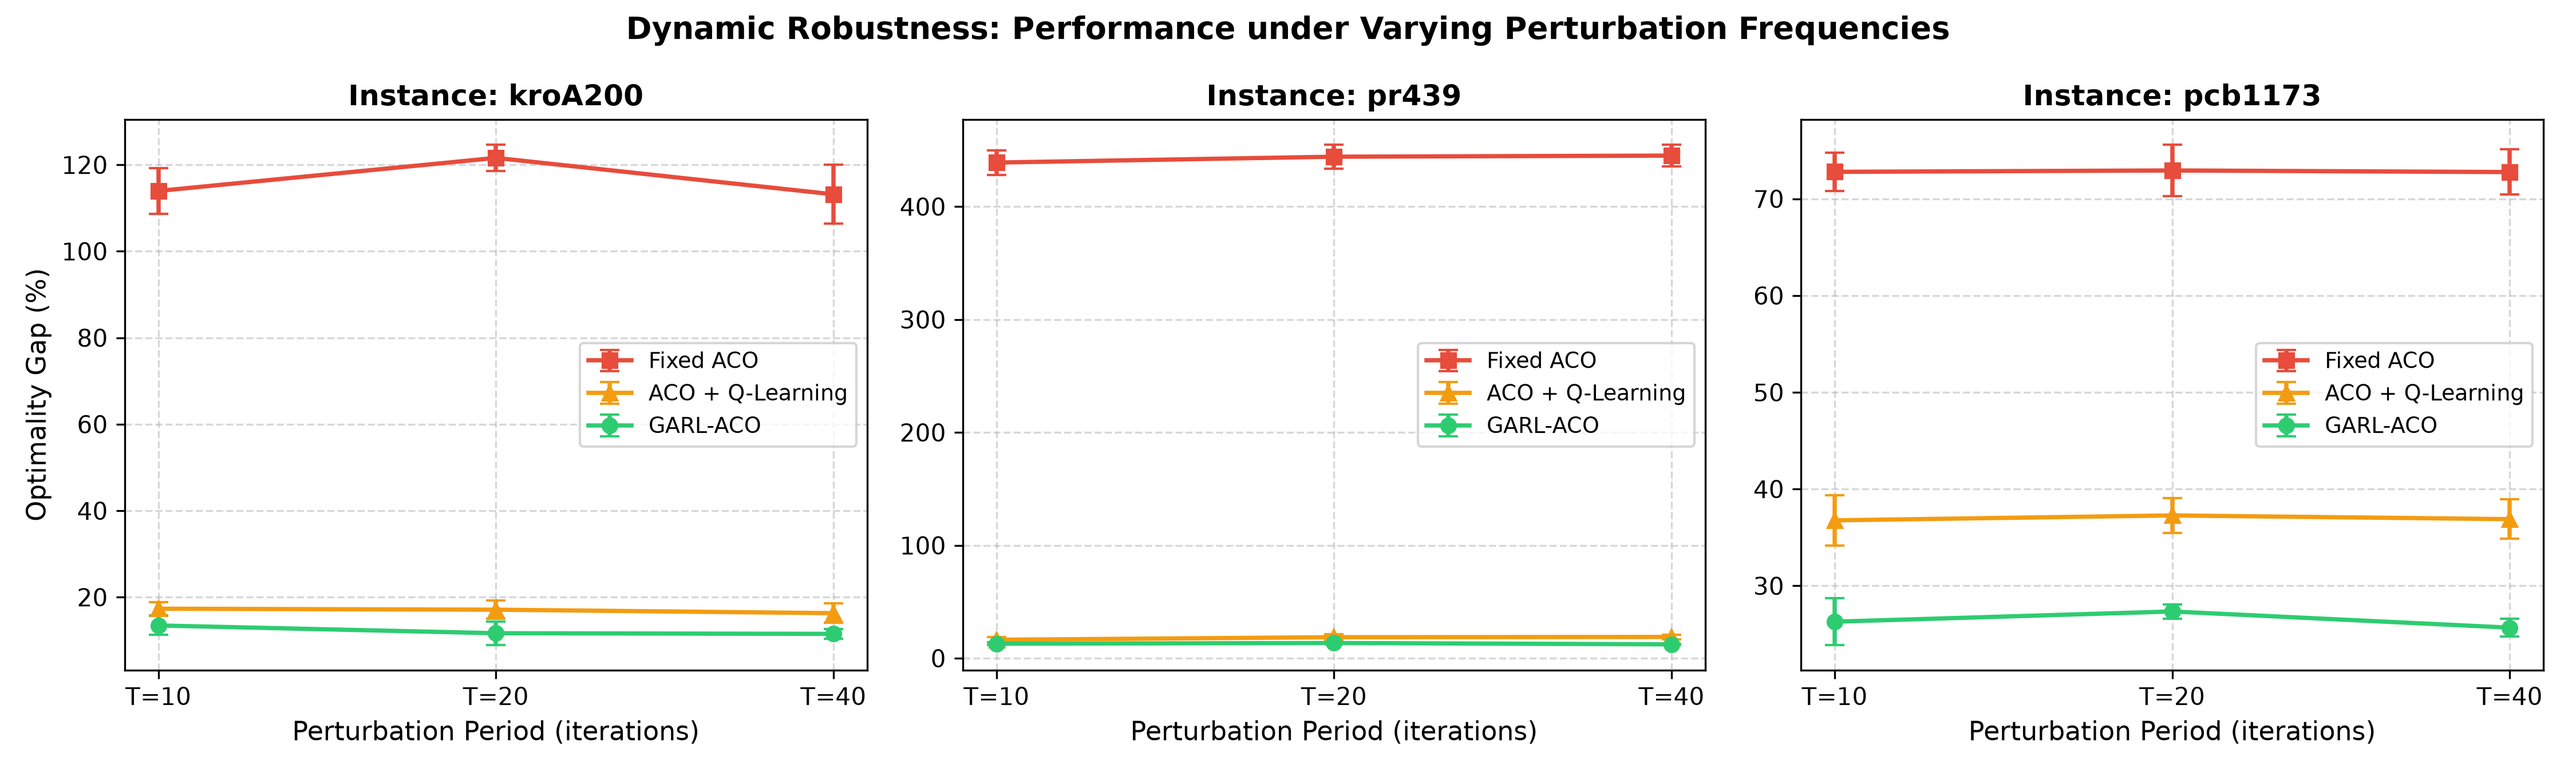
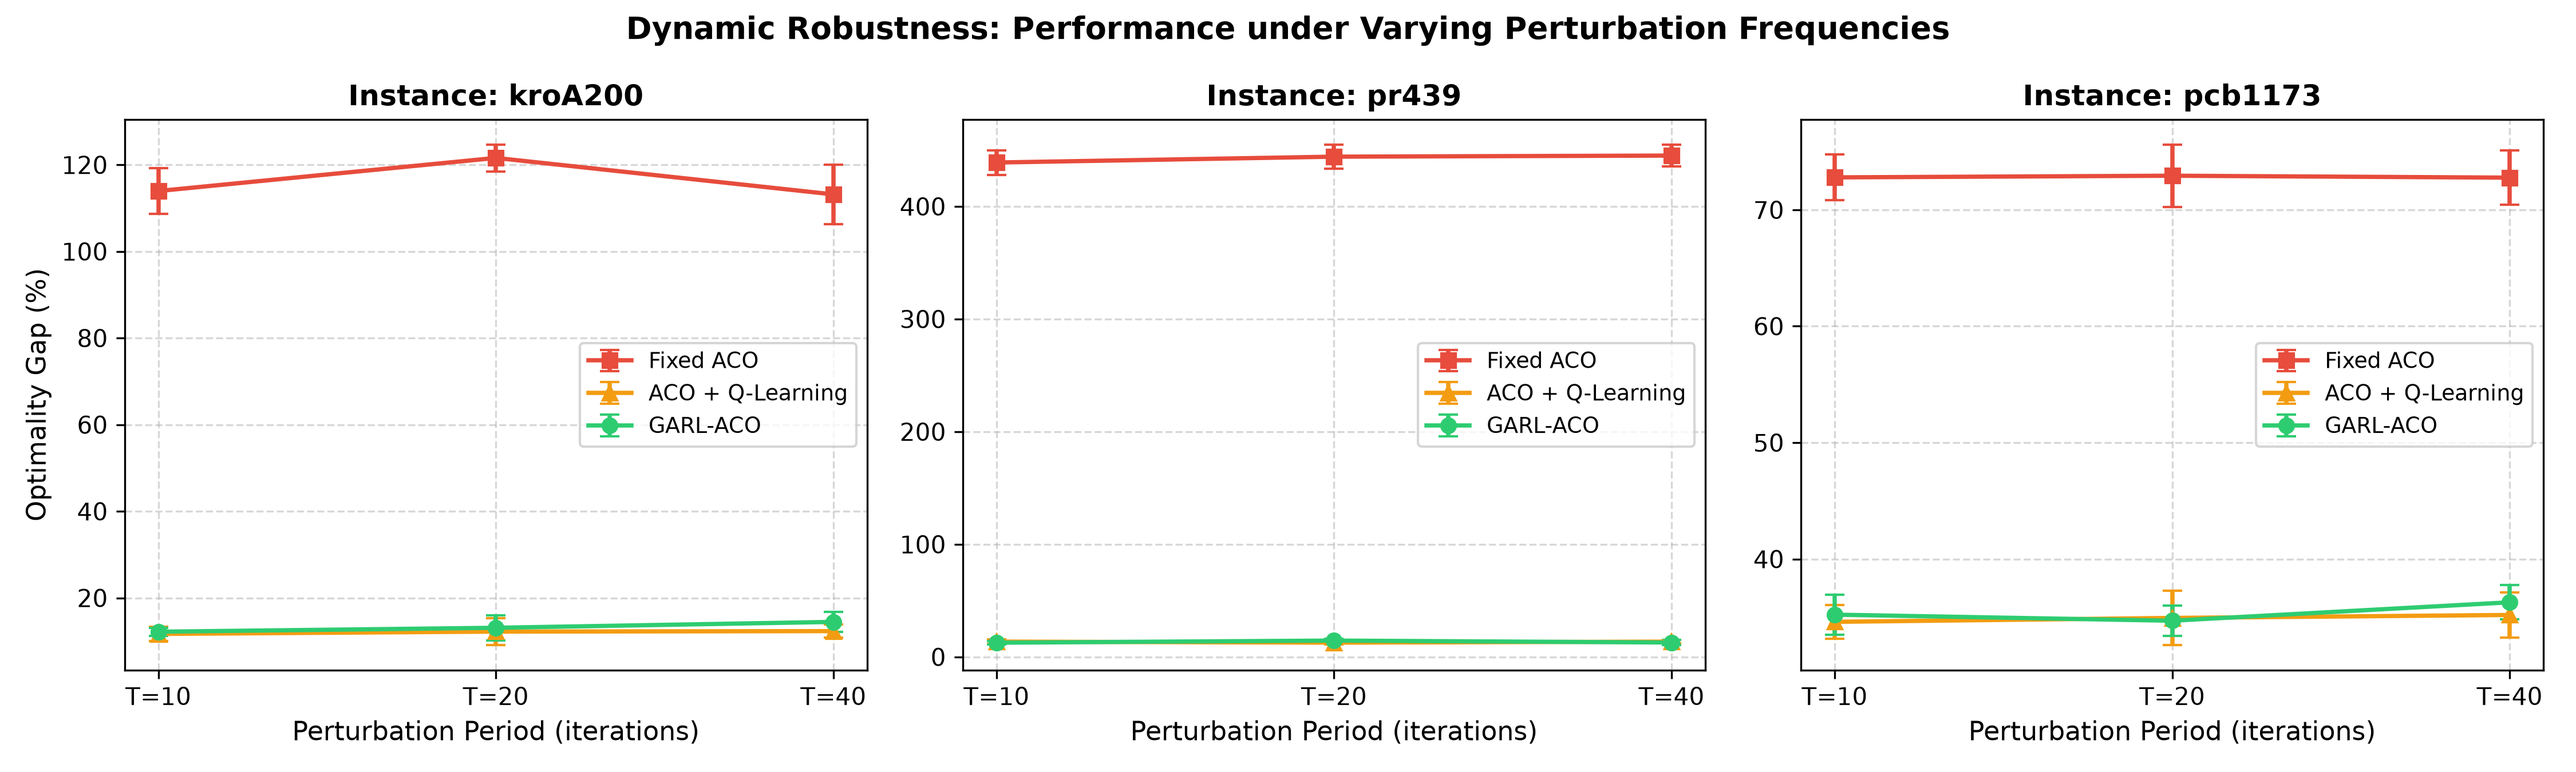
Cap nhat lai theo gop y cua reviewer

diff --git a/GARL-ACO/GARL ACO/demo_app.py b/GARL-ACO/GARL ACO/demo_app.py
@@ -18,9 +18,10 @@ from data.tsp_loader import load_dataset_instance
 from data.solutions import get_gap
 from env.dynamic_tsp_env import DynamicTSPEnvironment
 from aco.aco_core import VectorizedACO
-from agent.state_builder import build_state_vector
+from agent.state_builder import build_state_vector, build_search_only_state_vector
 from agent.ddpg_agent import DDPGAgent
 from agent.ql_agent import QLearningAgent
+from agent.dqn_agent import DQNAgent
 
 st.set_page_config(
     page_title="GARL-ACO Framework for Dynamic TSP",
@@ -28,10 +29,10 @@ st.set_page_config(
     initial_sidebar_state="expanded"
 )
 
-st.title(" GARL-ACO Framework (18 Graph Features)")
-st.markdown("### Research Demo — Dynamic Parameter Control with 18 Graph Structural Features")
+st.title("🐜 GARL-ACO Framework: Adaptive DRL-Driven Ant Colony Optimization")
+st.markdown("### Research & Interactive Demo — Dynamic TSP with Graph-Aware Reinforcement Learning")
 
-st.sidebar.header(" Control Panel")
+st.sidebar.header("🕹 Control Panel")
 
 instance_name = st.sidebar.selectbox(
     "Select TSP Instance:",
@@ -41,7 +42,7 @@ instance_name = st.sidebar.selectbox(
 
 method = st.sidebar.radio(
     "Select Dynamic Control Method:",
-    options=["Fixed ACO", "ACO + Q-Learning", "GARL-ACO"],
+    options=["Fixed ACO", "ACO + Q-Learning", "GARL-ACO (Proposed)", "NoGraph-DDPG (Ablation A)", "Discrete-DQN (Ablation B)"],
     index=2
 )
 
@@ -82,12 +83,22 @@ with right_col:
     param_plot_spot = st.empty()
 
 if run_button:
-    st.toast(f"Starting v4 simulation on {instance_name} with {method}...", icon="🚀")
+    st.toast(f"Starting simulation on {instance_name} with {method}...", icon="🚀")
     
-    ddpg_agent = DDPGAgent()
+    ddpg_agent = DDPGAgent(state_dim=34)
     ddpg_path = os.path.join(CHECKPOINT_DIR, "ddpg_agent.pt")
     if os.path.exists(ddpg_path):
         ddpg_agent.load(ddpg_path)
+
+    nograph_agent = DDPGAgent(state_dim=16)
+    nograph_path = os.path.join(CHECKPOINT_DIR, "ddpg_agent_nograph.pt")
+    if os.path.exists(nograph_path):
+        nograph_agent.load(nograph_path)
+
+    dqn_agent = DQNAgent(state_dim=34)
+    dqn_path = os.path.join(CHECKPOINT_DIR, "dqn_agent.pt")
+    if os.path.exists(dqn_path):
+        dqn_agent.load(dqn_path)
         
     ql_agent = QLearningAgent()
     ql_path = os.path.join(CHECKPOINT_DIR, "ql_agent.pkl")
@@ -97,7 +108,7 @@ if run_button:
     dynamic_env = DynamicTSPEnvironment(
         base_dist_matrix=instance.dist_matrix,
         perturb_ratio=0.12,
-        perturb_amplitude=0.5,
+        perturb_amplitude=0.4,
         perturb_period=20,
         enabled=enable_dynamic_traffic,
         seed=42
@@ -122,14 +133,27 @@ if run_button:
         active_dist = dynamic_env.step_environment()
         aco.set_dist_matrix(active_dist)
         
-        if method == "GARL-ACO" and (it == 1 or it % CONTROL_FREQ == 0):
+        if "GARL-ACO" in method and (it == 1 or it % CONTROL_FREQ == 0):
             graph_stats = dynamic_env.get_change_stats()
             aco_stats = aco.get_search_stats()
             state_vec = build_state_vector(aco_stats, graph_stats, active_dist, current_iter=it, max_iter=n_iterations)
             _, params = ddpg_agent.select_action(state_vec, add_noise=False)
             aco.set_parameters(params["alpha"], params["beta"], params["rho"])
+
+        elif "NoGraph" in method and (it == 1 or it % CONTROL_FREQ == 0):
+            aco_stats = aco.get_search_stats()
+            state_vec = build_search_only_state_vector(aco_stats, active_dist, current_iter=it, max_iter=n_iterations)
+            _, params = nograph_agent.select_action(state_vec, add_noise=False)
+            aco.set_parameters(params["alpha"], params["beta"], params["rho"])
+
+        elif "Discrete-DQN" in method and (it == 1 or it % CONTROL_FREQ == 0):
+            graph_stats = dynamic_env.get_change_stats()
+            aco_stats = aco.get_search_stats()
+            state_vec = build_state_vector(aco_stats, graph_stats, active_dist, current_iter=it, max_iter=n_iterations)
+            _, params = dqn_agent.select_action(state_vec, evaluate=True)
+            aco.set_parameters(params["alpha"], params["beta"], params["rho"])
             
-        elif method == "ACO + Q-Learning" and (it == 1 or it % CONTROL_FREQ == 0):
+        elif "Q-Learning" in method and (it == 1 or it % CONTROL_FREQ == 0):
             aco_stats = aco.get_search_stats()
             ql_state = ql_agent.discretize_state(aco_stats, current_iter=it, max_iter=n_iterations)
             _, params = ql_agent.select_action(ql_state, evaluate=True)
